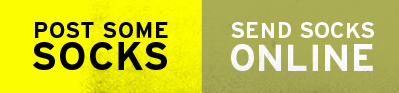
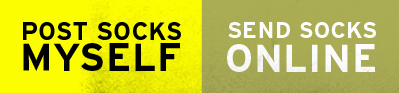
Updated post socks myself

diff --git a/app/assets/stylesheets/application.css b/app/assets/stylesheets/application.css
@@ -124,6 +124,8 @@ a#amnesty_logo {
 	color: #000;
 	font-weight: bold;
 	text-transform: uppercase;
+	background: #fff;
+	display: block;
 }
 
 /*========== Share this ==========*/
@@ -262,11 +264,13 @@ div.send_socks_info p {
 
 div.post_socks_address {
 	position: absolute;
-	top: 135px;
-	right: 45px;
+	top: 115px;
+	right: 25px;
+	width: 310px;
 }
 div.post_socks_address p {
-  font-size: 12px;
+  font-size: 15px;
+  line-height: 20px;
 }
 
 div.send_socks_tag {
